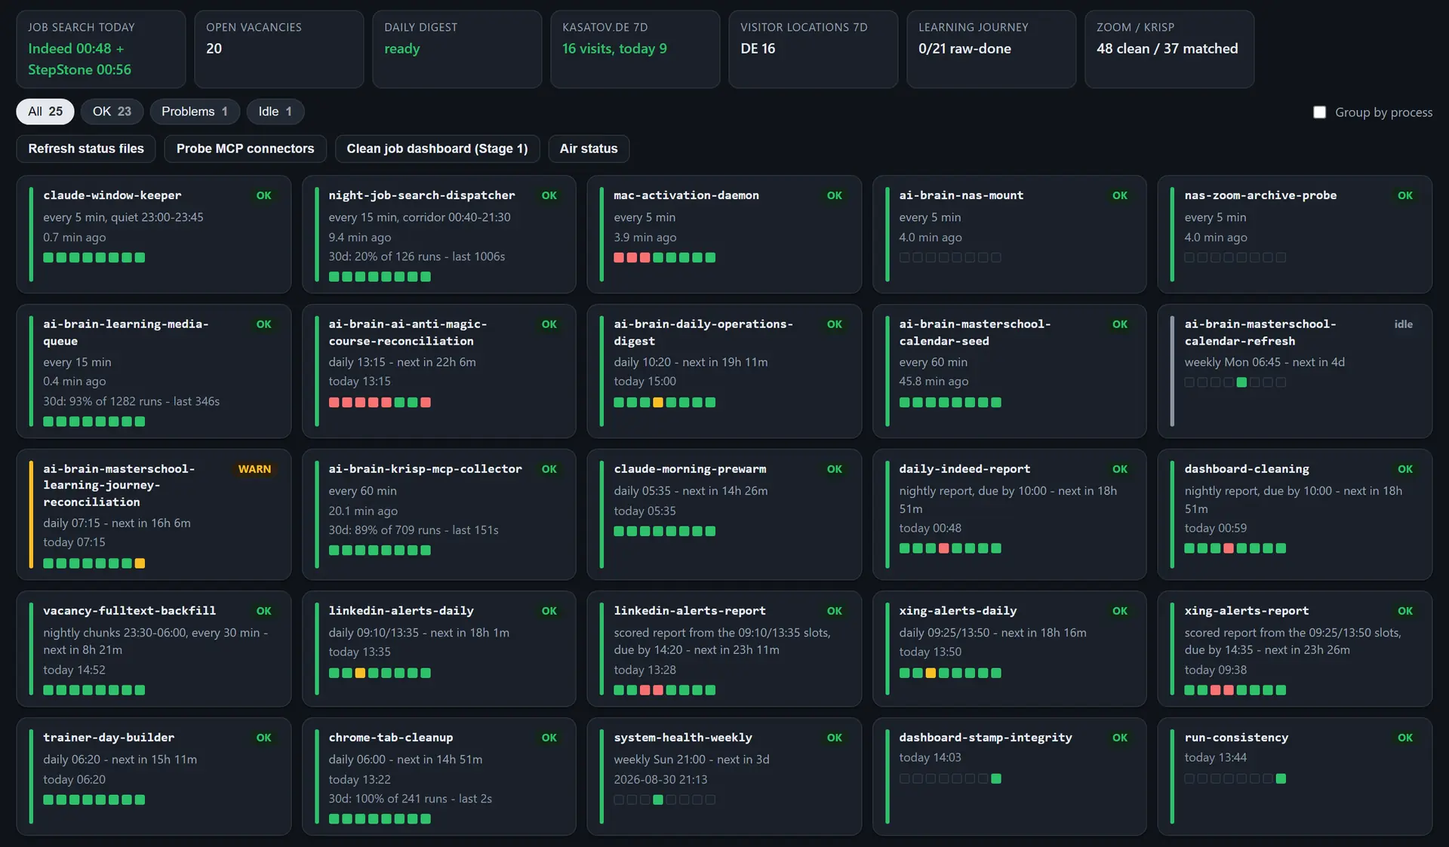
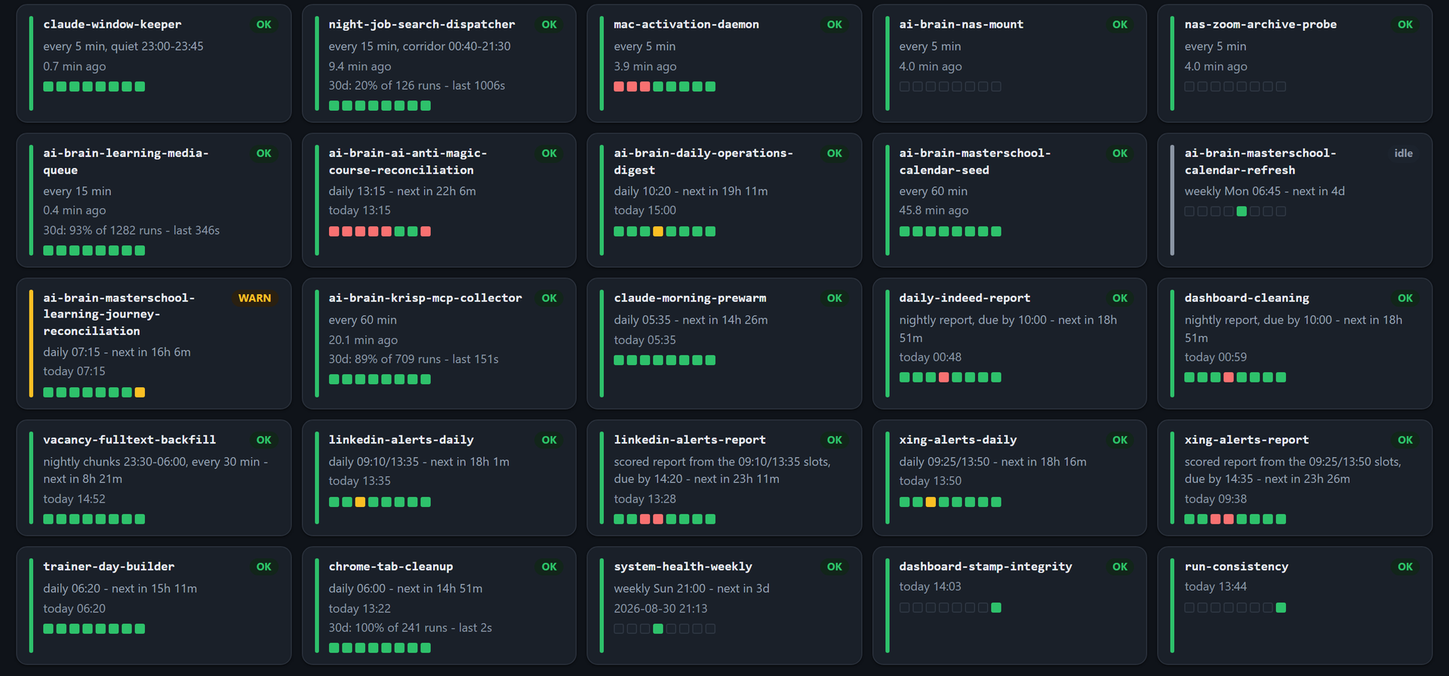
Pos. 12: Mission Control board on the card and on PS-03, worker grid only
Sergey's decisions: the live status board replaces the schematic on the
Pos. 12 card (projects pages and home trio, EN and DE; the schematic stays
as Fig. 1 on PS-03), and both images are cropped to the worker grid alone:
the infrastructure tiles, the KPI row and the action buttons above it are
not published. Captions and alt texts say so. Provenance rows in
assets/img/_sources.md.

diff --git a/de/index.html b/de/index.html
@@ -290,29 +290,8 @@
               <span class="anno"><span class="pos">Pos. 12</span> · seit Jun 2026</span>
             </div>
             <figure class="dc-fig">
-              <div class="dc-fig-box"><svg class="sch" viewBox="0 0 960 600" role="img" aria-label="Architekturschema des AI-Brain-Agentensystems: ein synchronisiertes Markdown-Regelwerk oben, drei LLM-Laufzeiten und ein selbst gehostetes n8n, die es lesen, zwei Scheduler auf einem Windows-Laptop und einem MacBook Air mit Heartbeat-Watchdog, 19 wiederkehrende Workflows und eine Kette von f&#252;nf Pr&#252;f-Gates, die einen Lauf scheitern lassen k&#246;nnen" style="font-size:19px">
-                <defs><marker id="sch-arrow" viewBox="0 0 8 8" refX="7" refY="4" markerWidth="6" markerHeight="6" orient="auto"><path d="M0 0 L8 4 L0 8 Z" fill="var(--ink-2)"/></marker></defs>
-                <rect class="box" x="60" y="34" width="840" height="54"/>
-                <text x="480" y="68" text-anchor="middle" style="font-size:19px">Markdown-Regelwerk und Zustand, eine Kopie je Rechner</text>
-                <path class="wire" d="M200 88 V128" marker-end="url(#sch-arrow)"/><path class="wire" d="M420 88 V128" marker-end="url(#sch-arrow)"/><path class="wire" d="M640 88 V128" marker-end="url(#sch-arrow)"/><path class="wire" d="M830 88 V128" marker-end="url(#sch-arrow)"/>
-                <rect class="box-soft" x="110" y="130" width="180" height="44"/><text x="200" y="158" text-anchor="middle" style="font-size:19px">Claude Code</text>
-                <rect class="box-soft" x="330" y="130" width="180" height="44"/><text x="420" y="158" text-anchor="middle" style="font-size:19px">OpenAI Codex</text>
-                <rect class="box-soft" x="550" y="130" width="180" height="44"/><text x="640" y="158" text-anchor="middle" style="font-size:19px">Google Gemini</text>
-                <rect class="box-soft" x="750" y="130" width="160" height="44"/><text x="830" y="157" text-anchor="middle" style="font-size:14px">n8n (Docker)</text>
-                
-                <path class="wire" d="M200 174 V226 H260 V262" marker-end="url(#sch-arrow)"/><path class="wire" d="M420 174 V226 H260"/><path class="wire" d="M640 174 V226 H700 V262" marker-end="url(#sch-arrow)"/><path class="wire" d="M420 226 H700"/><path class="wire" d="M830 174 V262" marker-end="url(#sch-arrow)"/>
-                <rect class="box" x="60" y="264" width="360" height="90"/>
-                <text x="240" y="302" text-anchor="middle" style="font-size:19px">Windows-Laptop</text><text x="240" y="332" text-anchor="middle" class="t2" style="font-size:14px">Task Scheduler</text>
-                <rect class="box" x="540" y="264" width="360" height="90"/>
-                <text x="720" y="302" text-anchor="middle" style="font-size:19px">MacBook Air</text><text x="720" y="332" text-anchor="middle" class="t2" style="font-size:14px">launchd</text>
-                <path class="wire-hot" d="M540 322 H420"/><text x="480" y="312" text-anchor="middle" class="t2" style="font-size:12px">Heartbeat-Watchdog</text>
-                <text x="480" y="386" text-anchor="middle" style="font-size:19px">19 wiederkehrende Workflows, je genau ein geplanter Owner</text>
-                <path class="wire" d="M240 354 V440" marker-end="url(#sch-arrow)"/><path class="wire" d="M720 354 V440" marker-end="url(#sch-arrow)"/>
-                <text x="480" y="464" text-anchor="middle" class="t2" style="font-size:14px">f&#252;nf Gates, die einen Lauf scheitern lassen</text>
-                <rect class="box-hot" x="60" y="482" width="152" height="40"/><text x="136" y="507" text-anchor="middle" class="hot" style="font-size:13px">IDs vorhanden</text><path class="wire" d="M212 502 H232" marker-end="url(#sch-arrow)"/><rect class="box-hot" x="232" y="482" width="152" height="40"/><text x="308" y="507" text-anchor="middle" class="hot" style="font-size:13px">Kodierung</text><path class="wire" d="M384 502 H404" marker-end="url(#sch-arrow)"/><rect class="box-hot" x="404" y="482" width="152" height="40"/><text x="480" y="507" text-anchor="middle" class="hot" style="font-size:13px">PDF-Reihenfolge</text><path class="wire" d="M556 502 H576" marker-end="url(#sch-arrow)"/><rect class="box-hot" x="576" y="482" width="152" height="40"/><text x="652" y="507" text-anchor="middle" class="hot" style="font-size:13px">Skills belegt</text><path class="wire" d="M728 502 H748" marker-end="url(#sch-arrow)"/><rect class="box-hot" x="748" y="482" width="152" height="40"/><text x="824" y="507" text-anchor="middle" class="hot" style="font-size:13px">keine Schablone</text>
-                <text x="480" y="562" text-anchor="middle" class="t2" style="font-size:14px">kein Agent sendet oder ver&#246;ffentlicht</text>
-              </svg></div>
-              <figcaption><b>Abb. 12</b><span>Architekturschema, kein Screenshot · das Vault ist privat</span></figcaption>
+              <div class="dc-fig-box"><img src="../assets/img/p-agents.webp" width="960" height="600" alt="Screenshot des Vault Mission Control Boards, nur das Worker-Raster: 25 Kacheln mit Worker-Name, Zeitplan, letztem Lauf, 30-Tage-Historie und Status; WARN-Zust&#228;nde so gezeigt, wie sie vorgefunden wurden" loading="lazy" decoding="async"></div>
+              <figcaption><b>Abb. 12</b><span>Mission Control, das Live-Statusboard · Aufnahme 03.09.2026</span></figcaption>
             </figure>
             <div class="dc-body">
               <h3>KI-Agentensystem (AI-Brain)</h3>

diff --git a/de/projects.html b/de/projects.html
@@ -421,29 +421,8 @@
               <span class="anno"><span class="pos">Pos. 12</span> · seit Jun 2026</span>
             </div>
             <figure class="dc-fig">
-              <div class="dc-fig-box"><svg class="sch" viewBox="0 0 960 600" role="img" aria-label="Architekturschema des AI-Brain-Agentensystems: ein synchronisiertes Markdown-Regelwerk oben, drei LLM-Laufzeiten und ein selbst gehostetes n8n, die es lesen, zwei Scheduler auf einem Windows-Laptop und einem MacBook Air mit Heartbeat-Watchdog, 19 wiederkehrende Workflows und eine Kette von f&#252;nf Pr&#252;f-Gates, die einen Lauf scheitern lassen k&#246;nnen" style="font-size:19px">
-                <defs><marker id="sch-arrow" viewBox="0 0 8 8" refX="7" refY="4" markerWidth="6" markerHeight="6" orient="auto"><path d="M0 0 L8 4 L0 8 Z" fill="var(--ink-2)"/></marker></defs>
-                <rect class="box" x="60" y="34" width="840" height="54"/>
-                <text x="480" y="68" text-anchor="middle" style="font-size:19px">Markdown-Regelwerk und Zustand, eine Kopie je Rechner</text>
-                <path class="wire" d="M200 88 V128" marker-end="url(#sch-arrow)"/><path class="wire" d="M420 88 V128" marker-end="url(#sch-arrow)"/><path class="wire" d="M640 88 V128" marker-end="url(#sch-arrow)"/><path class="wire" d="M830 88 V128" marker-end="url(#sch-arrow)"/>
-                <rect class="box-soft" x="110" y="130" width="180" height="44"/><text x="200" y="158" text-anchor="middle" style="font-size:19px">Claude Code</text>
-                <rect class="box-soft" x="330" y="130" width="180" height="44"/><text x="420" y="158" text-anchor="middle" style="font-size:19px">OpenAI Codex</text>
-                <rect class="box-soft" x="550" y="130" width="180" height="44"/><text x="640" y="158" text-anchor="middle" style="font-size:19px">Google Gemini</text>
-                <rect class="box-soft" x="750" y="130" width="160" height="44"/><text x="830" y="157" text-anchor="middle" style="font-size:14px">n8n (Docker)</text>
-                
-                <path class="wire" d="M200 174 V226 H260 V262" marker-end="url(#sch-arrow)"/><path class="wire" d="M420 174 V226 H260"/><path class="wire" d="M640 174 V226 H700 V262" marker-end="url(#sch-arrow)"/><path class="wire" d="M420 226 H700"/><path class="wire" d="M830 174 V262" marker-end="url(#sch-arrow)"/>
-                <rect class="box" x="60" y="264" width="360" height="90"/>
-                <text x="240" y="302" text-anchor="middle" style="font-size:19px">Windows-Laptop</text><text x="240" y="332" text-anchor="middle" class="t2" style="font-size:14px">Task Scheduler</text>
-                <rect class="box" x="540" y="264" width="360" height="90"/>
-                <text x="720" y="302" text-anchor="middle" style="font-size:19px">MacBook Air</text><text x="720" y="332" text-anchor="middle" class="t2" style="font-size:14px">launchd</text>
-                <path class="wire-hot" d="M540 322 H420"/><text x="480" y="312" text-anchor="middle" class="t2" style="font-size:12px">Heartbeat-Watchdog</text>
-                <text x="480" y="386" text-anchor="middle" style="font-size:19px">19 wiederkehrende Workflows, je genau ein geplanter Owner</text>
-                <path class="wire" d="M240 354 V440" marker-end="url(#sch-arrow)"/><path class="wire" d="M720 354 V440" marker-end="url(#sch-arrow)"/>
-                <text x="480" y="464" text-anchor="middle" class="t2" style="font-size:14px">f&#252;nf Gates, die einen Lauf scheitern lassen</text>
-                <rect class="box-hot" x="60" y="482" width="152" height="40"/><text x="136" y="507" text-anchor="middle" class="hot" style="font-size:13px">IDs vorhanden</text><path class="wire" d="M212 502 H232" marker-end="url(#sch-arrow)"/><rect class="box-hot" x="232" y="482" width="152" height="40"/><text x="308" y="507" text-anchor="middle" class="hot" style="font-size:13px">Kodierung</text><path class="wire" d="M384 502 H404" marker-end="url(#sch-arrow)"/><rect class="box-hot" x="404" y="482" width="152" height="40"/><text x="480" y="507" text-anchor="middle" class="hot" style="font-size:13px">PDF-Reihenfolge</text><path class="wire" d="M556 502 H576" marker-end="url(#sch-arrow)"/><rect class="box-hot" x="576" y="482" width="152" height="40"/><text x="652" y="507" text-anchor="middle" class="hot" style="font-size:13px">Skills belegt</text><path class="wire" d="M728 502 H748" marker-end="url(#sch-arrow)"/><rect class="box-hot" x="748" y="482" width="152" height="40"/><text x="824" y="507" text-anchor="middle" class="hot" style="font-size:13px">keine Schablone</text>
-                <text x="480" y="562" text-anchor="middle" class="t2" style="font-size:14px">kein Agent sendet oder ver&#246;ffentlicht</text>
-              </svg></div>
-              <figcaption><b>Abb. 12</b><span>Architekturschema, kein Screenshot · das Vault ist privat</span></figcaption>
+              <div class="dc-fig-box"><img src="../assets/img/p-agents.webp" width="960" height="600" alt="Screenshot des Vault Mission Control Boards, nur das Worker-Raster: 25 Kacheln mit Worker-Name, Zeitplan, letztem Lauf, 30-Tage-Historie und Status; WARN-Zust&#228;nde so gezeigt, wie sie vorgefunden wurden" loading="lazy" decoding="async"></div>
+              <figcaption><b>Abb. 12</b><span>Mission Control, das Live-Statusboard · Aufnahme 03.09.2026</span></figcaption>
             </figure>
             <div class="dc-body">
               <h3>KI-Agentensystem (AI-Brain)</h3>

diff --git a/index.html b/index.html
@@ -292,29 +292,8 @@
               <span class="anno"><span class="pos">Pos. 12</span> · since Jun 2026</span>
             </div>
             <figure class="dc-fig">
-              <div class="dc-fig-box"><svg class="sch" viewBox="0 0 960 600" role="img" aria-label="Architecture schematic of the AI-Brain agent system: a synced Markdown rule set on top, three LLM runtimes and a self-hosted n8n reading it, two schedulers on a Windows laptop and a MacBook Air joined by a heartbeat watchdog, 19 recurring workflows, and a chain of five verification gates that can fail a run" style="font-size:19px">
-                <defs><marker id="sch-arrow" viewBox="0 0 8 8" refX="7" refY="4" markerWidth="6" markerHeight="6" orient="auto"><path d="M0 0 L8 4 L0 8 Z" fill="var(--ink-2)"/></marker></defs>
-                <rect class="box" x="60" y="34" width="840" height="54"/>
-                <text x="480" y="68" text-anchor="middle" style="font-size:19px">Markdown rule set and state, one copy per machine, synced</text>
-                <path class="wire" d="M200 88 V128" marker-end="url(#sch-arrow)"/><path class="wire" d="M420 88 V128" marker-end="url(#sch-arrow)"/><path class="wire" d="M640 88 V128" marker-end="url(#sch-arrow)"/><path class="wire" d="M830 88 V128" marker-end="url(#sch-arrow)"/>
-                <rect class="box-soft" x="110" y="130" width="180" height="44"/><text x="200" y="158" text-anchor="middle" style="font-size:19px">Claude Code</text>
-                <rect class="box-soft" x="330" y="130" width="180" height="44"/><text x="420" y="158" text-anchor="middle" style="font-size:19px">OpenAI Codex</text>
-                <rect class="box-soft" x="550" y="130" width="180" height="44"/><text x="640" y="158" text-anchor="middle" style="font-size:19px">Google Gemini</text>
-                <rect class="box-soft" x="750" y="130" width="160" height="44"/><text x="830" y="157" text-anchor="middle" style="font-size:14px">n8n (Docker)</text>
-                
-                <path class="wire" d="M200 174 V226 H260 V262" marker-end="url(#sch-arrow)"/><path class="wire" d="M420 174 V226 H260"/><path class="wire" d="M640 174 V226 H700 V262" marker-end="url(#sch-arrow)"/><path class="wire" d="M420 226 H700"/><path class="wire" d="M830 174 V262" marker-end="url(#sch-arrow)"/>
-                <rect class="box" x="60" y="264" width="360" height="90"/>
-                <text x="240" y="302" text-anchor="middle" style="font-size:19px">Windows laptop</text><text x="240" y="332" text-anchor="middle" class="t2" style="font-size:14px">Task Scheduler</text>
-                <rect class="box" x="540" y="264" width="360" height="90"/>
-                <text x="720" y="302" text-anchor="middle" style="font-size:19px">MacBook Air</text><text x="720" y="332" text-anchor="middle" class="t2" style="font-size:14px">launchd</text>
-                <path class="wire-hot" d="M540 322 H420"/><text x="480" y="312" text-anchor="middle" class="t2" style="font-size:12px">heartbeat watchdog</text>
-                <text x="480" y="386" text-anchor="middle" style="font-size:19px">19 recurring workflows, exactly one scheduled owner each</text>
-                <path class="wire" d="M240 354 V440" marker-end="url(#sch-arrow)"/><path class="wire" d="M720 354 V440" marker-end="url(#sch-arrow)"/>
-                <text x="480" y="464" text-anchor="middle" class="t2" style="font-size:14px">five gates that can fail a run</text>
-                <rect class="box-hot" x="60" y="482" width="152" height="40"/><text x="136" y="507" text-anchor="middle" class="hot" style="font-size:13px">IDs exist</text><path class="wire" d="M212 502 H232" marker-end="url(#sch-arrow)"/><rect class="box-hot" x="232" y="482" width="152" height="40"/><text x="308" y="507" text-anchor="middle" class="hot" style="font-size:13px">encoding</text><path class="wire" d="M384 502 H404" marker-end="url(#sch-arrow)"/><rect class="box-hot" x="404" y="482" width="152" height="40"/><text x="480" y="507" text-anchor="middle" class="hot" style="font-size:13px">PDF order</text><path class="wire" d="M556 502 H576" marker-end="url(#sch-arrow)"/><rect class="box-hot" x="576" y="482" width="152" height="40"/><text x="652" y="507" text-anchor="middle" class="hot" style="font-size:13px">no invented skill</text><path class="wire" d="M728 502 H748" marker-end="url(#sch-arrow)"/><rect class="box-hot" x="748" y="482" width="152" height="40"/><text x="824" y="507" text-anchor="middle" class="hot" style="font-size:13px">not a template</text>
-                <text x="480" y="562" text-anchor="middle" class="t2" style="font-size:14px">nothing is sent or published by an agent</text>
-              </svg></div>
-              <figcaption><b>Fig. 12</b><span>Architecture schematic, not a screenshot · the vault is private</span></figcaption>
+              <div class="dc-fig-box"><img src="assets/img/p-agents.webp" width="960" height="600" alt="Screenshot of the Vault Mission Control board, worker grid only: 25 tiles, each with the worker name, its schedule, last run, 30-day run history and status; WARN states shown as found" loading="lazy" decoding="async"></div>
+              <figcaption><b>Fig. 12</b><span>Mission Control, the live status board · captured 2026-09-03</span></figcaption>
             </figure>
             <div class="dc-body">
               <h3>AI-Brain Agent System</h3>

diff --git a/projects.html b/projects.html
@@ -424,29 +424,8 @@
               <span class="anno"><span class="pos">Pos. 12</span> · since Jun 2026</span>
             </div>
             <figure class="dc-fig">
-              <div class="dc-fig-box"><svg class="sch" viewBox="0 0 960 600" role="img" aria-label="Architecture schematic of the AI-Brain agent system: a synced Markdown rule set on top, three LLM runtimes and a self-hosted n8n reading it, two schedulers on a Windows laptop and a MacBook Air joined by a heartbeat watchdog, 19 recurring workflows, and a chain of five verification gates that can fail a run" style="font-size:19px">
-                <defs><marker id="sch-arrow" viewBox="0 0 8 8" refX="7" refY="4" markerWidth="6" markerHeight="6" orient="auto"><path d="M0 0 L8 4 L0 8 Z" fill="var(--ink-2)"/></marker></defs>
-                <rect class="box" x="60" y="34" width="840" height="54"/>
-                <text x="480" y="68" text-anchor="middle" style="font-size:19px">Markdown rule set and state, one copy per machine, synced</text>
-                <path class="wire" d="M200 88 V128" marker-end="url(#sch-arrow)"/><path class="wire" d="M420 88 V128" marker-end="url(#sch-arrow)"/><path class="wire" d="M640 88 V128" marker-end="url(#sch-arrow)"/><path class="wire" d="M830 88 V128" marker-end="url(#sch-arrow)"/>
-                <rect class="box-soft" x="110" y="130" width="180" height="44"/><text x="200" y="158" text-anchor="middle" style="font-size:19px">Claude Code</text>
-                <rect class="box-soft" x="330" y="130" width="180" height="44"/><text x="420" y="158" text-anchor="middle" style="font-size:19px">OpenAI Codex</text>
-                <rect class="box-soft" x="550" y="130" width="180" height="44"/><text x="640" y="158" text-anchor="middle" style="font-size:19px">Google Gemini</text>
-                <rect class="box-soft" x="750" y="130" width="160" height="44"/><text x="830" y="157" text-anchor="middle" style="font-size:14px">n8n (Docker)</text>
-                
-                <path class="wire" d="M200 174 V226 H260 V262" marker-end="url(#sch-arrow)"/><path class="wire" d="M420 174 V226 H260"/><path class="wire" d="M640 174 V226 H700 V262" marker-end="url(#sch-arrow)"/><path class="wire" d="M420 226 H700"/><path class="wire" d="M830 174 V262" marker-end="url(#sch-arrow)"/>
-                <rect class="box" x="60" y="264" width="360" height="90"/>
-                <text x="240" y="302" text-anchor="middle" style="font-size:19px">Windows laptop</text><text x="240" y="332" text-anchor="middle" class="t2" style="font-size:14px">Task Scheduler</text>
-                <rect class="box" x="540" y="264" width="360" height="90"/>
-                <text x="720" y="302" text-anchor="middle" style="font-size:19px">MacBook Air</text><text x="720" y="332" text-anchor="middle" class="t2" style="font-size:14px">launchd</text>
-                <path class="wire-hot" d="M540 322 H420"/><text x="480" y="312" text-anchor="middle" class="t2" style="font-size:12px">heartbeat watchdog</text>
-                <text x="480" y="386" text-anchor="middle" style="font-size:19px">19 recurring workflows, exactly one scheduled owner each</text>
-                <path class="wire" d="M240 354 V440" marker-end="url(#sch-arrow)"/><path class="wire" d="M720 354 V440" marker-end="url(#sch-arrow)"/>
-                <text x="480" y="464" text-anchor="middle" class="t2" style="font-size:14px">five gates that can fail a run</text>
-                <rect class="box-hot" x="60" y="482" width="152" height="40"/><text x="136" y="507" text-anchor="middle" class="hot" style="font-size:13px">IDs exist</text><path class="wire" d="M212 502 H232" marker-end="url(#sch-arrow)"/><rect class="box-hot" x="232" y="482" width="152" height="40"/><text x="308" y="507" text-anchor="middle" class="hot" style="font-size:13px">encoding</text><path class="wire" d="M384 502 H404" marker-end="url(#sch-arrow)"/><rect class="box-hot" x="404" y="482" width="152" height="40"/><text x="480" y="507" text-anchor="middle" class="hot" style="font-size:13px">PDF order</text><path class="wire" d="M556 502 H576" marker-end="url(#sch-arrow)"/><rect class="box-hot" x="576" y="482" width="152" height="40"/><text x="652" y="507" text-anchor="middle" class="hot" style="font-size:13px">no invented skill</text><path class="wire" d="M728 502 H748" marker-end="url(#sch-arrow)"/><rect class="box-hot" x="748" y="482" width="152" height="40"/><text x="824" y="507" text-anchor="middle" class="hot" style="font-size:13px">not a template</text>
-                <text x="480" y="562" text-anchor="middle" class="t2" style="font-size:14px">nothing is sent or published by an agent</text>
-              </svg></div>
-              <figcaption><b>Fig. 12</b><span>Architecture schematic, not a screenshot · the vault is private</span></figcaption>
+              <div class="dc-fig-box"><img src="assets/img/p-agents.webp" width="960" height="600" alt="Screenshot of the Vault Mission Control board, worker grid only: 25 tiles, each with the worker name, its schedule, last run, 30-day run history and status; WARN states shown as found" loading="lazy" decoding="async"></div>
+              <figcaption><b>Fig. 12</b><span>Mission Control, the live status board · captured 2026-09-03</span></figcaption>
             </figure>
             <div class="dc-body">
               <h3>AI-Brain Agent System</h3>

diff --git a/de/case-agent-system.html b/de/case-agent-system.html
@@ -196,9 +196,9 @@
         <figure class="fig-card reveal" style="margin-top:1.6rem;">
           <div class="fig-head">
             <span class="anno"><b>Abb. 2</b> · Mission Control, das Live-Statusboard · Aufnahme 03.09.2026 14:18</span>
-            <span class="anno">Infrastruktur-Kacheln abgeschnitten</span>
+            <span class="anno">Kopfzeilen abgeschnitten, nur das Worker-Raster</span>
           </div>
-          <div class="fig-body"><img class="fig-img" src="../assets/img/case-agent-mc.webp" width="1920" height="1123" alt="Screenshot des Vault Mission Control Boards: eine KPI-Zeile (Jobsuche heute, offene Stellen, Tagesdigest, kasatov.de-Besuche, Besucherregionen, Learning Journey, Zoom- und Krisp-Z&#228;hler), die Filter All, OK, Problems und Idle sowie ein Raster aus Worker-Kacheln mit Zeitplan, letztem Lauf, 30-Tage-Historie und Status; WARN-Zust&#228;nde so gezeigt, wie sie vorgefunden wurden" loading="lazy" decoding="async"></div>
+          <div class="fig-body"><img class="fig-img" src="../assets/img/case-agent-mc.webp" width="1920" height="896" alt="Screenshot des Vault Mission Control Boards, nur das Worker-Raster: 25 Kacheln mit Worker-Name, Zeitplan, letztem Lauf, 30-Tage-Historie und Status; WARN-Zust&#228;nde so gezeigt, wie sie vorgefunden wurden" loading="lazy" decoding="async"></div>
         </figure>
         <div class="aside-row" style="margin-top:1.6rem;">
           <div class="aside-card reveal">

diff --git a/case-agent-system.html b/case-agent-system.html
@@ -196,9 +196,9 @@
         <figure class="fig-card reveal" style="margin-top:1.6rem;">
           <div class="fig-head">
             <span class="anno"><b>Fig. 2</b> · Mission Control, the live status board · captured 2026-09-03 14:18</span>
-            <span class="anno">infrastructure tiles cropped</span>
+            <span class="anno">header rows cropped, worker grid only</span>
           </div>
-          <div class="fig-body"><img class="fig-img" src="assets/img/case-agent-mc.webp" width="1920" height="1123" alt="Screenshot of the Vault Mission Control board: a KPI row (job search today, open vacancies, daily digest, kasatov.de visits, visitor locations, learning journey, Zoom and Krisp counts), the filter chips All, OK, Problems and Idle, and a grid of worker tiles, each with its schedule, last run, 30-day run history and status; WARN states shown as found" loading="lazy" decoding="async"></div>
+          <div class="fig-body"><img class="fig-img" src="assets/img/case-agent-mc.webp" width="1920" height="896" alt="Screenshot of the Vault Mission Control board, worker grid only: 25 tiles, each with the worker name, its schedule, last run, 30-day run history and status; WARN states shown as found" loading="lazy" decoding="async"></div>
         </figure>
         <div class="aside-row" style="margin-top:1.6rem;">
           <div class="aside-card reveal">

diff --git a/assets/img/_sources.md b/assets/img/_sources.md
@@ -22,4 +22,5 @@ an architecture drawing and not a screenshot, and is labelled as such in its cap
 | `p-neuron.webp` | card | `https://github.com/sergey-kasatov/neuron-platformer-rl` `assets/saliency_maps.png` | 1281x2184 | (0, 0, 1281, 832) | 960x600 | 14 KB, q85 | repository figure: Grad-CAM saliency maps, first two of five rows (level frame, 84x84 CNN input, attention map) |
 | `case-freshmart.webp` | fig | CDP capture `streamlit_validation.png` (2026-09-03) | 2880x2000 | (760, 130, 2720, 1296) | 1600x952 | 71 KB, q85 | Streamlit app, expander Model validation on the historical test period, CDP capture at 1440 px, 2x |
 | `case-maintenance.webp` | fig | `https://github.com/sergey-kasatov/predictive-maintenance-ml` `images/23_pr_curves.png` | 820x700 | none | 820x700 | 19 KB, q85 | repository figure: precision-recall curves of the three classifiers on the test set |
-| `case-agent-mc.webp` | figwide | CDP capture `mission_control_2x.png` (2026-09-03) | 2880x3000 | (0, 256, 2880, 1940) | 1920x1123 | 112 KB, q75 | Vault Mission Control (localhost:8137, serve_heartbeat.py), CDP capture at 1440 px, 2x, 14:18 CEST; KPI row, filter chips and the worker grid with WARN states as found; the infrastructure tiles above the KPI row cropped out |
+| `p-agents.webp` | card | CDP capture `mission_control_2x.png` (2026-09-03) | 2880x3000 | (0, 596, 2880, 1940) | 960x600 | 47 KB, q85 | Vault Mission Control, same capture and crop as case-agent-mc, fitted to 16:10 (dark bands top and bottom are the board's own background) |
+| `case-agent-mc.webp` | figwide | CDP capture `mission_control_2x.png` (2026-09-03) | 2880x3000 | (0, 596, 2880, 1940) | 1920x896 | 286 KB, qlossless | Vault Mission Control (localhost:8137, serve_heartbeat.py), CDP capture at 1440 px, 2x, 14:18 CEST; the worker grid only, WARN states as found; everything above the first tile row (infrastructure tiles with host, user and pid, the KPI row, the filter chips and action buttons) cropped out |
